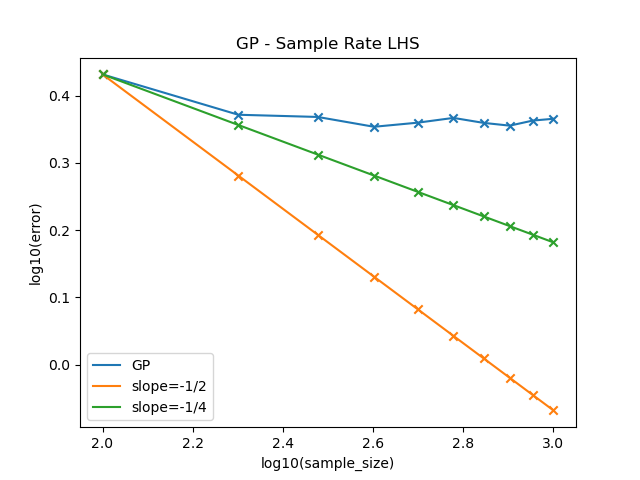
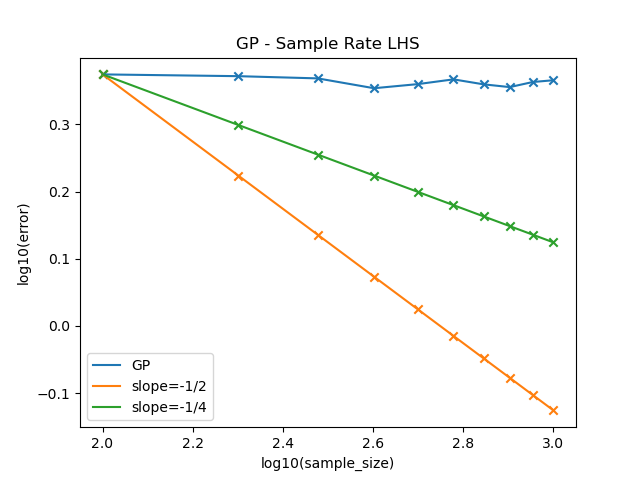
chore: modify weights and coeffficients

diff --git a/models/GP.py b/models/GP.py
@@ -264,7 +264,7 @@ class GP(object):
         z = np.random.randn(3*N_domain+N_boundary, 1)
         sol = np.random.randn(N_domain,1)
         w0 = np.ones((N_domain,1))
-        w1 = np.random.randn(3*N_domain+N_boundary, 1)
+        w1 = np.ones((3*N_domain+N_boundary, 1))
         for i in range(GN_step):
             kernel_phi_phi = self.kernel_phi_phi(x_t_domain, x_t_boundary, w0, w1)  # Kernel matrix between z and z
             kernel_x_phi = self.kernel_x_t_phi(x_t_domain, x_t_domain, x_t_boundary, w0, w1) # Kernel matrix between x_t_domain and z
@@ -317,7 +317,7 @@ class GP_Complicated_HJB(GP):
         z_domain = z[:3*N_domain]
         dP = np.zeros_like(z_domain)
         dP[:N_domain] = z[:N_domain]
-        dP[N_domain:2*N_domain] = z[N_domain:2*N_domain]*(1/d)
+        dP[N_domain:2*N_domain] = z[N_domain:2*N_domain]*(-1/d)
         dP[2*N_domain:3*N_domain] = z[2*N_domain:3*N_domain]
         return dP
     
